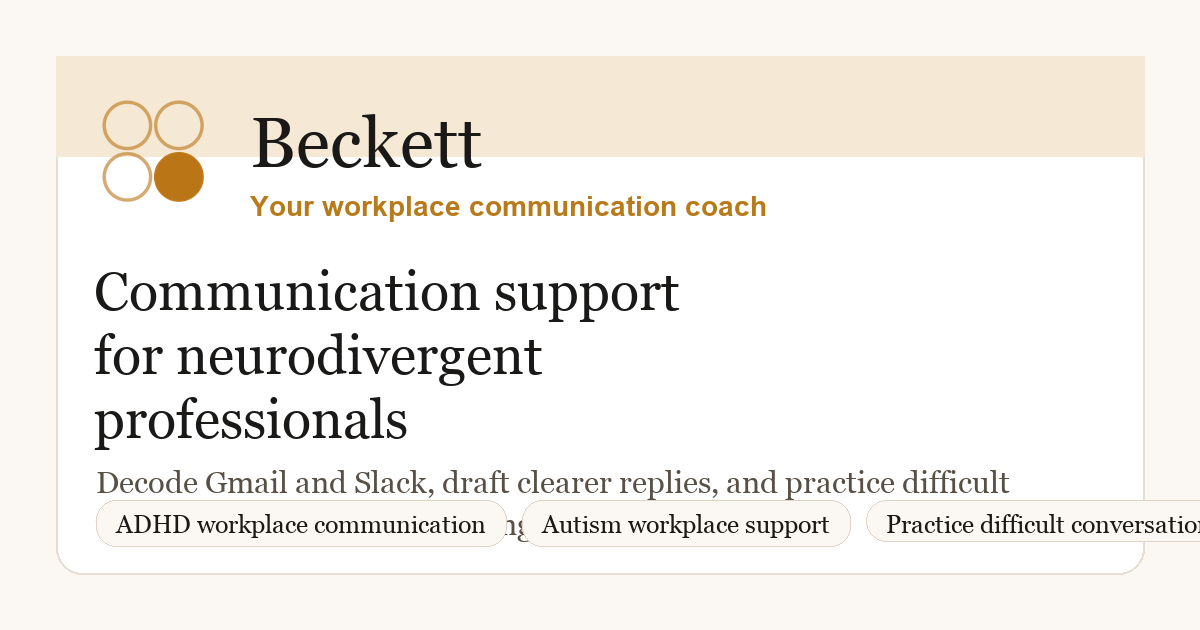
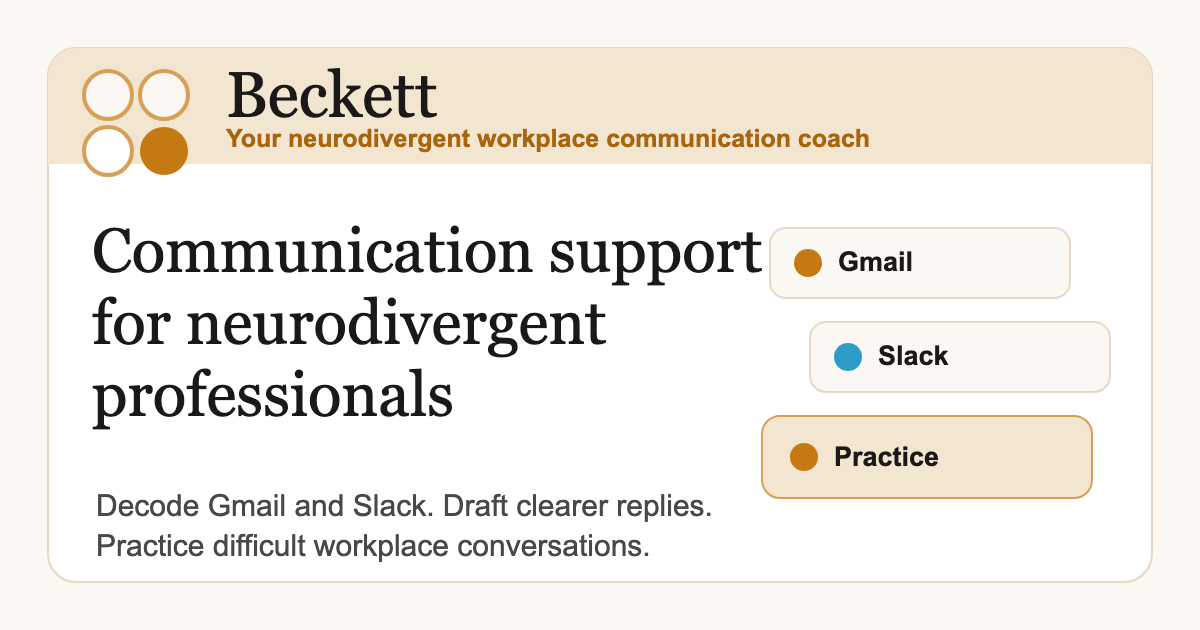
Refresh social preview image

Changed region(s): [[0.0308, 0.0603, 1.0, 0.9349], [0.8633, 0.3619, 0.8942, 0.3921]]

diff --git a/app/layout.tsx b/app/layout.tsx
@@ -41,7 +41,7 @@ export const metadata: Metadata = {
     siteName: "Beckett",
     images: [
       {
-        url: "/brand/beckett-og.png",
+        url: "/brand/beckett-og.png?v=20260623",
         width: 1200,
         height: 630,
         alt: "Beckett workplace communication coach",
@@ -55,7 +55,7 @@ export const metadata: Metadata = {
     title: "Beckett - Neurodivergent Workplace Communication Coach",
     description:
       "Workplace communication coaching for neurodivergent professionals in Gmail, Slack, and practice sessions.",
-    images: ["/brand/beckett-og.png"],
+    images: ["/brand/beckett-og.png?v=20260623"],
   },
 };
 